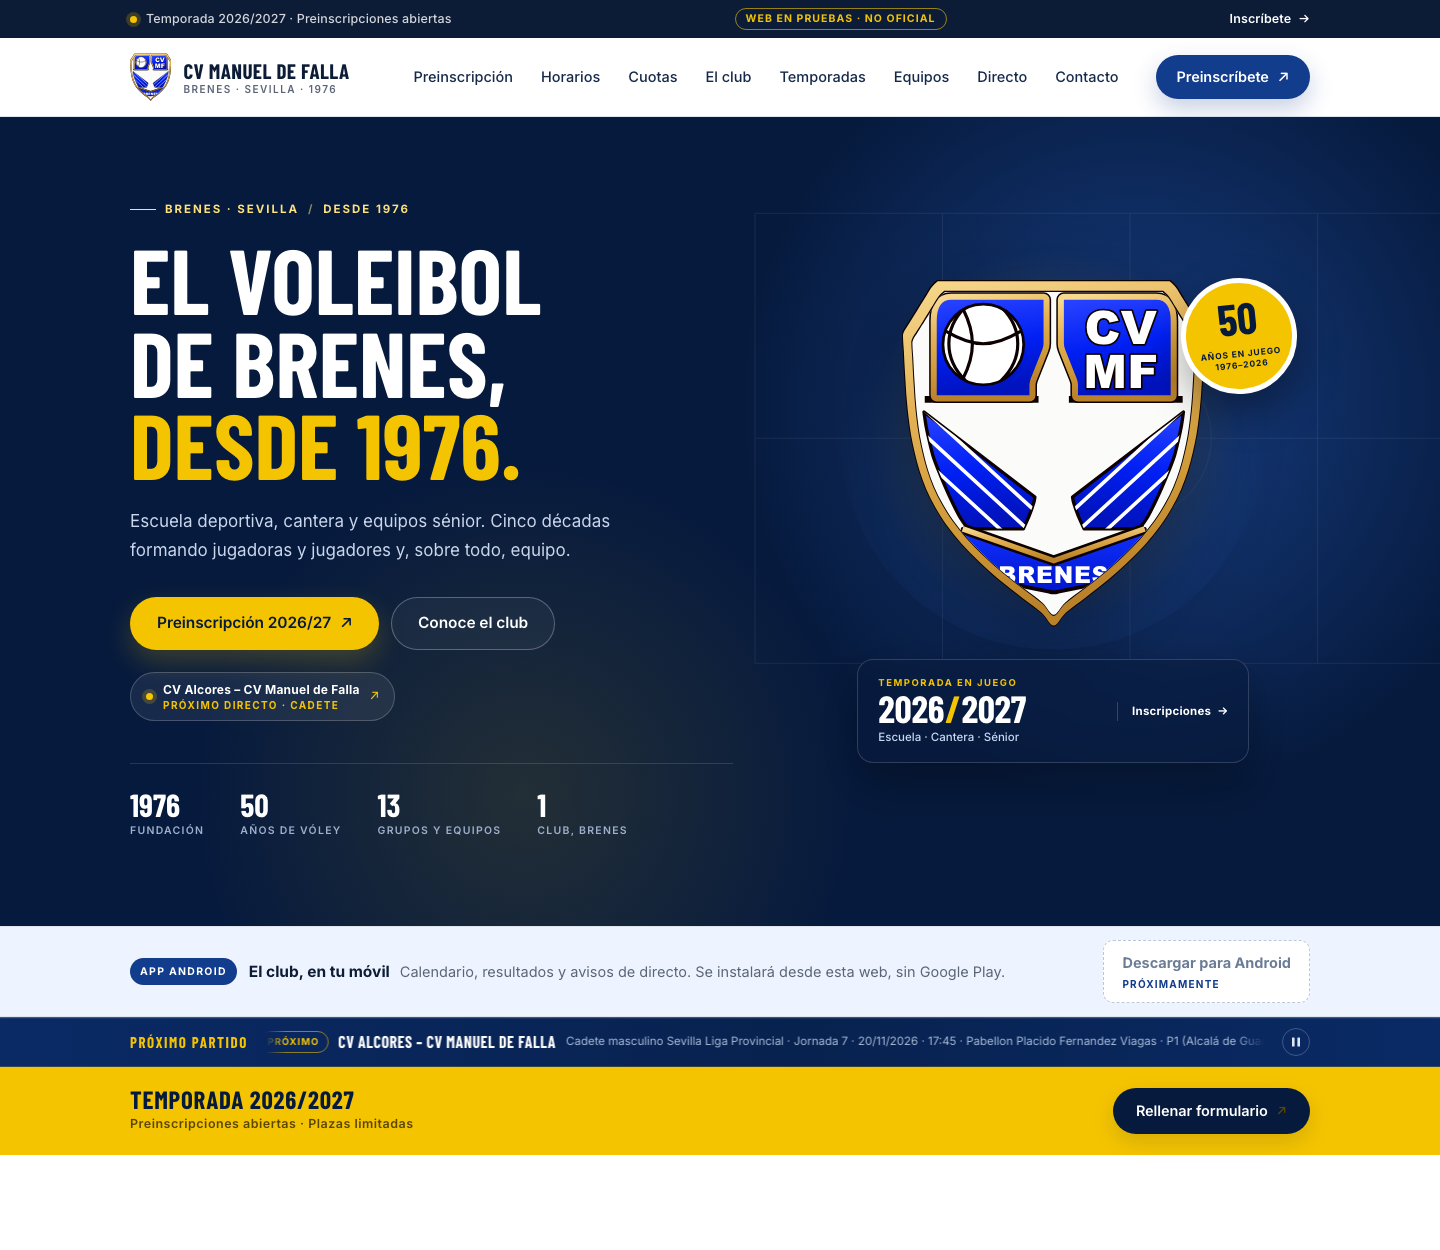
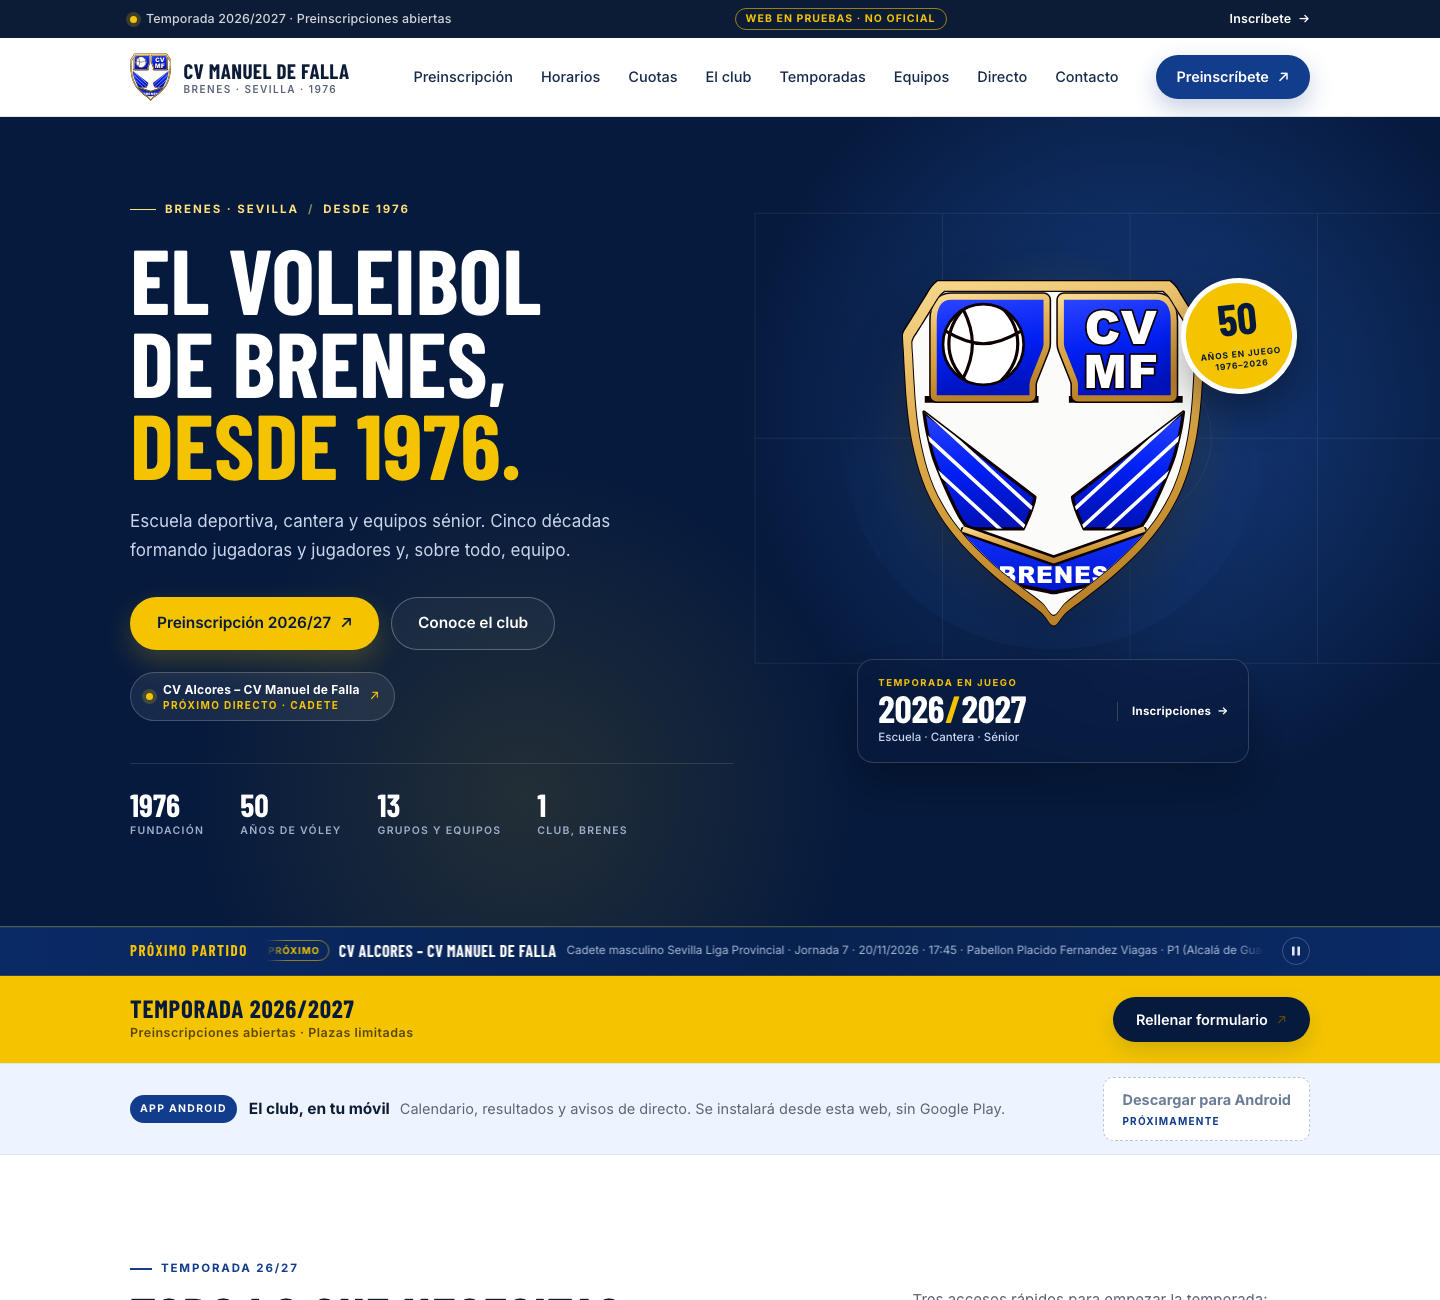
Tira de resultados antes que la franja de la app

diff --git a/index.html b/index.html
@@ -254,21 +254,6 @@ window.setTimeout(function () {
     </div>
   </section>
 
-  <section class="app-strip" aria-labelledby="app-title">
-    <div class="wrap app-strip-inner">
-      <div class="app-strip-copy">
-        <span class="app-strip-badge">App Android</span>
-        <p>
-          <strong id="app-title">El club, en tu móvil</strong>
-          <span>Calendario, resultados y avisos de directo. Se instalará desde esta web, sin Google Play.</span>
-        </p>
-      </div>
-      <button class="app-download" type="button" disabled aria-describedby="app-soon">
-        <span>Descargar para Android</span>
-        <span class="app-download-note" id="app-soon">Próximamente</span>
-      </button>
-    </div>
-  </section>
 
   <!-- Tira de resultados: se genera desde este bloque. Edita solo los datos. -->
   <script type="application/json" id="live-data">
@@ -2088,6 +2073,22 @@ window.setTimeout(function () {
     <div class="wrap season-band-inner">
       <p><strong>Temporada 2026/2027</strong><span>Preinscripciones abiertas · Plazas limitadas</span></p>
       <a class="btn btn-light" href="https://forms.gle/tboq52XEYnAkywhg6" target="_blank" rel="noopener">Rellenar formulario <span aria-hidden="true">↗</span></a>
+    </div>
+  </section>
+
+  <section class="app-strip" aria-labelledby="app-title">
+    <div class="wrap app-strip-inner">
+      <div class="app-strip-copy">
+        <span class="app-strip-badge">App Android</span>
+        <p>
+          <strong id="app-title">El club, en tu móvil</strong>
+          <span>Calendario, resultados y avisos de directo. Se instalará desde esta web, sin Google Play.</span>
+        </p>
+      </div>
+      <button class="app-download" type="button" disabled aria-describedby="app-soon">
+        <span>Descargar para Android</span>
+        <span class="app-download-note" id="app-soon">Próximamente</span>
+      </button>
     </div>
   </section>
 

diff --git a/ABRIR-WEB-CLUB-VOLEIBOL.html b/ABRIR-WEB-CLUB-VOLEIBOL.html
@@ -3020,21 +3020,6 @@ h2 {
     </div>
   </section>
 
-  <section class="app-strip" aria-labelledby="app-title">
-    <div class="wrap app-strip-inner">
-      <div class="app-strip-copy">
-        <span class="app-strip-badge">App Android</span>
-        <p>
-          <strong id="app-title">El club, en tu móvil</strong>
-          <span>Calendario, resultados y avisos de directo. Se instalará desde esta web, sin Google Play.</span>
-        </p>
-      </div>
-      <button class="app-download" type="button" disabled aria-describedby="app-soon">
-        <span>Descargar para Android</span>
-        <span class="app-download-note" id="app-soon">Próximamente</span>
-      </button>
-    </div>
-  </section>
 
   <!-- Tira de resultados: se genera desde este bloque. Edita solo los datos. -->
   <script type="application/json" id="live-data">
@@ -4854,6 +4839,22 @@ h2 {
     <div class="wrap season-band-inner">
       <p><strong>Temporada 2026/2027</strong><span>Preinscripciones abiertas · Plazas limitadas</span></p>
       <a class="btn btn-light" href="https://forms.gle/tboq52XEYnAkywhg6" target="_blank" rel="noopener">Rellenar formulario <span aria-hidden="true">↗</span></a>
+    </div>
+  </section>
+
+  <section class="app-strip" aria-labelledby="app-title">
+    <div class="wrap app-strip-inner">
+      <div class="app-strip-copy">
+        <span class="app-strip-badge">App Android</span>
+        <p>
+          <strong id="app-title">El club, en tu móvil</strong>
+          <span>Calendario, resultados y avisos de directo. Se instalará desde esta web, sin Google Play.</span>
+        </p>
+      </div>
+      <button class="app-download" type="button" disabled aria-describedby="app-soon">
+        <span>Descargar para Android</span>
+        <span class="app-download-note" id="app-soon">Próximamente</span>
+      </button>
     </div>
   </section>
 

diff --git a/README.md b/README.md
@@ -115,7 +115,7 @@ Cada ejecución también escribe el bloque `#equipos-data`, que alimenta la secc
 - **Detección de equipos:** el script reconoce al club por «Manuel de Falla» o «CVMF» en el nombre del equipo (la FAV añade patrocinadores: *Grimaret CVMF Brenes*, *MGS Seguros CVMF Brenes*, *CVMF Brenes Azul*…), y toma la categoría y el sexo de la ficha de la competición, no del título.
 - **Color del equipo:** se toma de las palabras *Azul*, *Blanco*, *Oro*, *Plata*, *Negro*, *Rojo*, *Verde* o *Amarillo* del nombre. Si la FAV inscribe al equipo solo con el patrocinador, se usa la tabla `ALIASES` de `tools/actualizar-partidos.py` (por ejemplo, *Renault Hinojosa Márquez CVMF* es el Alevín femenino oro).
 
-**App Android:** justo debajo de la portada hay una franja con el botón «Descargar para Android» desactivado y la etiqueta «Próximamente». Cuando esté la app, se sustituye por el enlace de descarga del APK.
+**App Android:** después de la tira de resultados y la banda de temporada hay una franja con el botón «Descargar para Android» desactivado y la etiqueta «Próximamente». Cuando esté la app, se sustituye por el enlace de descarga del APK.
 
 **Refresco garantizado:** el cron de GitHub no es fiable. `cloudflare/worker.js` es un Worker que lanza el flujo cada 5 minutos desde fuera y, además, hace de puente con la FAV para leer el marcador en vivo. Instrucciones en `cloudflare/LEEME.md`.
 
